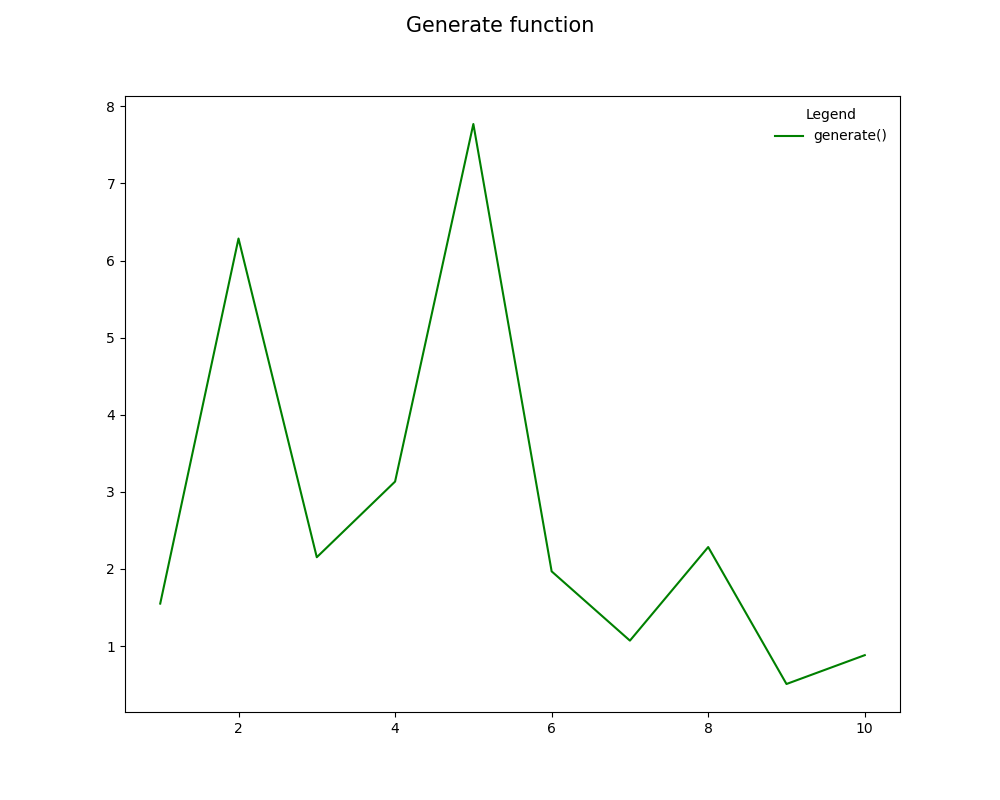
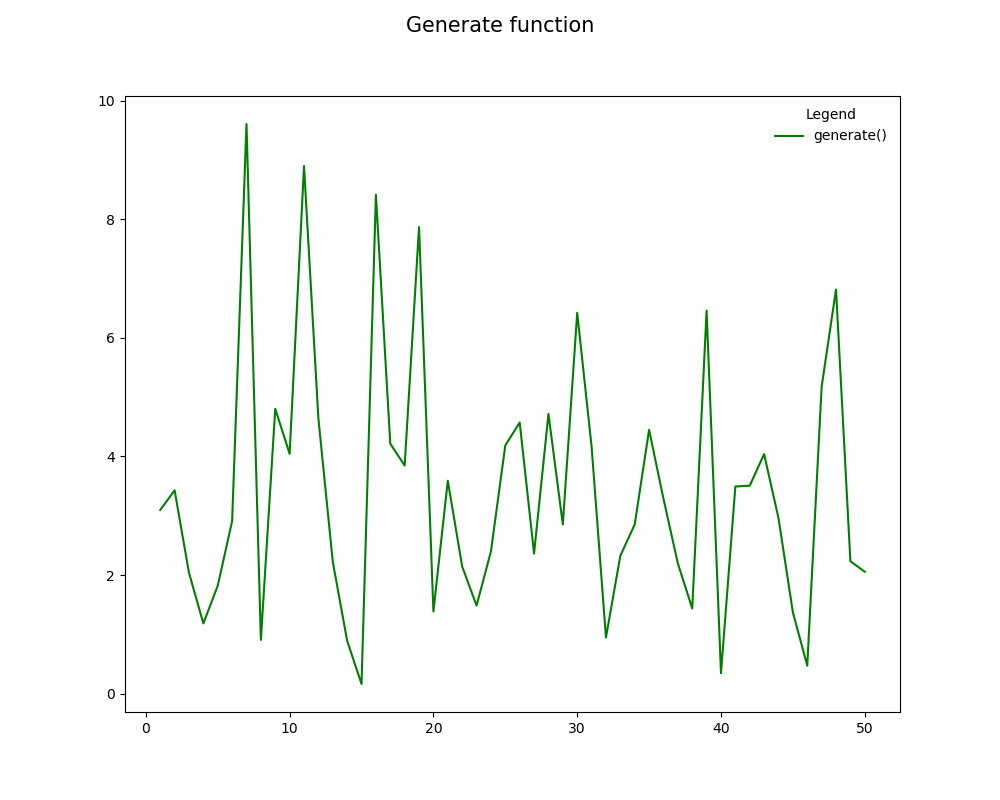
update benchmark

diff --git a/benchmark/graph.py b/benchmark/graph.py
@@ -4,11 +4,10 @@ import numpy as np
 size = (10, 8)
 
 
-
-def make_simple_plot(array, title, label, color, path=""):
+def make_simple_plot(array, title, label, color):
     fig, ax = plt.subplots(1, figsize=size)
     fig.suptitle(title, fontsize=15)
     plt.plot(np.linspace(1, len(array), len(array)), array, color=color, label=label)
 
     plt.legend(loc="upper right", title="Legend", frameon=False)
-    plt.savefig("./picture/"+title+".png")
+    plt.savefig("./benchmark/picture/"+title+".png")

diff --git a/test.py b/test.py
@@ -3,8 +3,8 @@ from benchmark.graph import make_simple_plot
 
 
 def simulation():
-    time = get_time(10, 2048)
-    make_simple_plot(time, "Generate function with old MillerRabin", "generate()", "red")
+    time = get_time(50, 2048)
+    make_simple_plot(time, "Generate function", "generate()", "green")
 
 
 if __name__ == "__main__":

diff --git a/benchmark/generate_bench.py b/benchmark/generate_bench.py
@@ -1,7 +1,5 @@
 from pubcrypt.cryptosystem.rsa import generate
-from random import randint
 import time
-
 
 
 def get_time(n, nBits):
